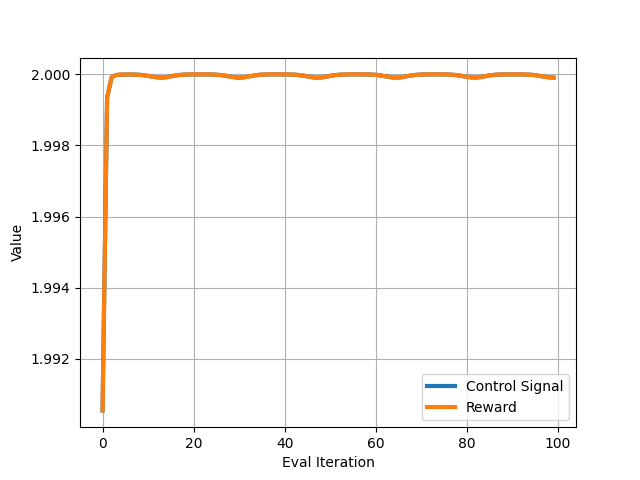
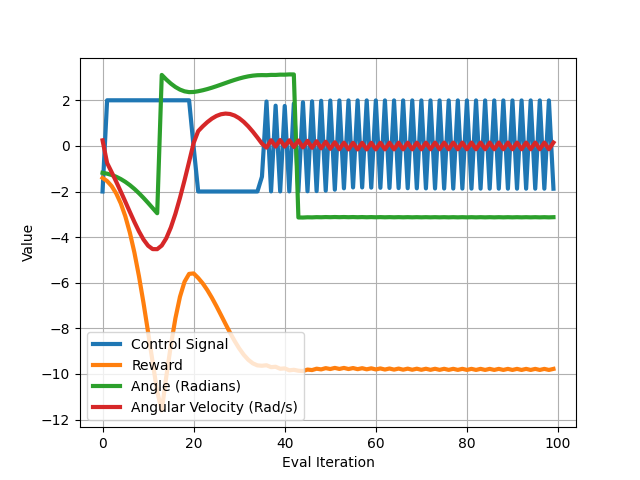
RL update

diff --git a/ddpg.py b/ddpg.py
@@ -115,12 +115,12 @@ if __name__ == "__main__":
 
     parser.add_argument('--h_dim', type=int, default=64, help="hidden layer size")
     parser.add_argument('--gravity', type=float, default=10., help="acceleration of gravity for Pendulum-v1 environment")
-    parser.add_argument('--gamma', type=float, default=0.9, help='temporal reward discounting hyperparameter. should be in [0, 1]')
-    parser.add_argument('--replay_buffer_size', type=int, default=64, help='replay buffer size to approx iid')
+    parser.add_argument('--gamma', type=float, default=0.2, help='temporal reward discounting hyperparameter. should be in [0, 1]')
+    parser.add_argument('--replay_buffer_size', type=int, default=256, help='replay buffer size to approx iid')
     parser.add_argument('--batch_size', type=int, default=32, help='batch size for training')
     parser.add_argument('--target_rho', type=float, default=0.95, help='target network update momentum. tn = tn*rho + on(1-rho)')
-    parser.add_argument('--exploration_scale', type=float, default=0.5, help='scale of Gaussian noise to add to actions during learning')
-    parser.add_argument('--n_iters', type=int, default=1000, help='number of training iterations')
+    parser.add_argument('--exploration_scale', type=float, default=1., help='scale of Gaussian noise to add to actions during learning')
+    parser.add_argument('--n_iters', type=int, default=2000, help='number of training iterations')
     parser.add_argument('--n_eval_iters', type=int, default=100, help='number of iters for evaluation')
     parser.add_argument('--n_updates_per_iter', type=int, default=1, help='A, Q updates per training iteration')
 
@@ -146,7 +146,7 @@ if __name__ == "__main__":
         replay_buffer_size=args.replay_buffer_size
         )
     
-    A_opt = K.optimizers.Adam(1e-4)
+    A_opt = K.optimizers.Adam(1e-3)
     Q_opt = K.optimizers.Adam(1e-4)
 
     msbe_loss_tracker = []
@@ -161,7 +161,7 @@ if __name__ == "__main__":
 
         # observe the state
         # select an action (with noise). clip
-        noisy_act = ddpg.A_net_predict(obs[None, :], args.exploration_scale)[0]
+        noisy_act = ddpg.A_net_predict(obs[None, :], noise_scale=args.exploration_scale)[0]
 
         # observe next state, reward, and done signal
         tup = env.step(noisy_act)
@@ -226,13 +226,18 @@ if __name__ == "__main__":
 
     control_tracker = []
     reward_tracker = []
+    angle_tracker = []
+    vel_tracker = []
     # visualize the state, control signals, and reward with time for one trial
     obs = env.reset()[0]
     for iteration in range(args.n_eval_iters):
+        x, y, vel = obs
+        angle = np.arctan2(y, x)
+        angle_tracker.append(angle)
+        vel_tracker.append(vel)
         # observe the state
         # select an action (without noise). clip
         act = ddpg.A_net_predict(obs[None, :])[0]
-        print(iteration, act)
         # observe next state, reward, and done signal
         tup = env.step(act)
         next_obs, reward, done, truncated, info = tup
@@ -243,16 +248,17 @@ if __name__ == "__main__":
             obs = next_obs
 
         control_tracker.append(act)
-        reward_tracker.append(act)
+        reward_tracker.append(reward)
 
     plt.figure()
 
     plt.plot(control_tracker, linewidth=3, label="Control Signal")
     plt.plot(reward_tracker, linewidth=3, label="Reward")
+    plt.plot(angle_tracker, linewidth=3, label='Angle (Radians)')
+    plt.plot(vel_tracker, linewidth=3, label='Angular Velocity (Rad/s)')
     plt.legend()
     plt.xlabel("Eval Iteration")
     plt.ylabel("Value")
     plt.grid()
     plt.savefig("./RL_eval.png")
     
-    # evaluate the network by plotting reward with time for a few trials
